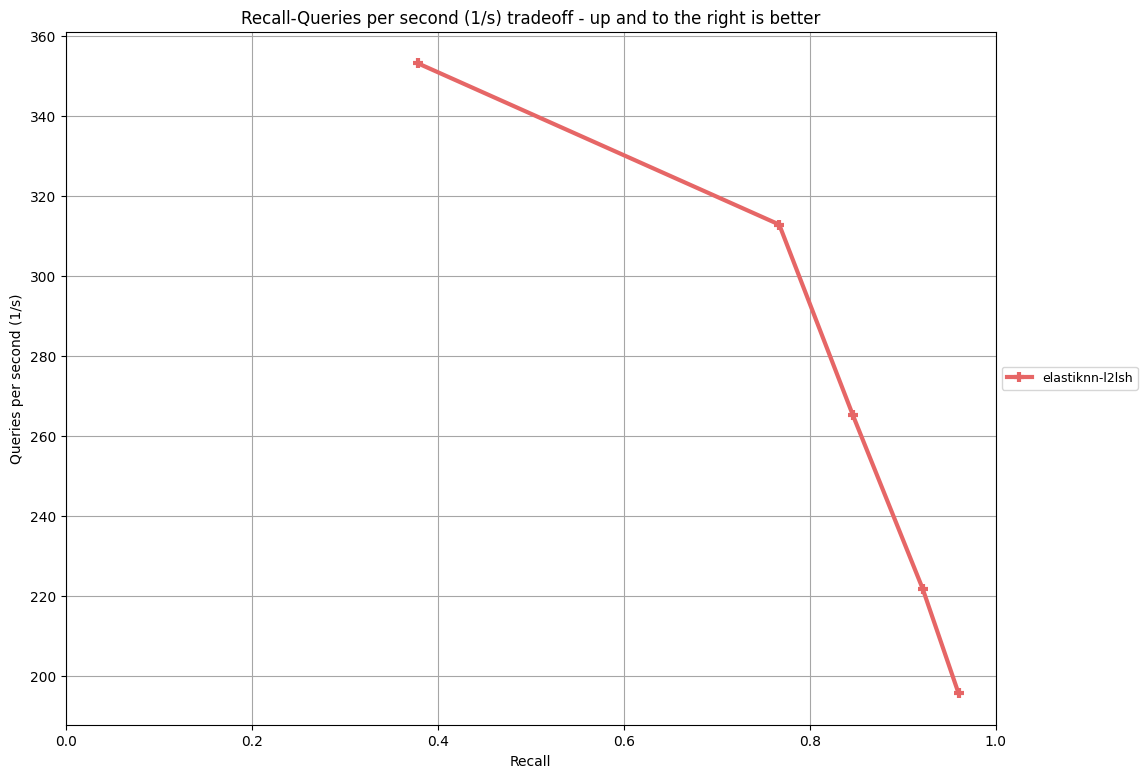
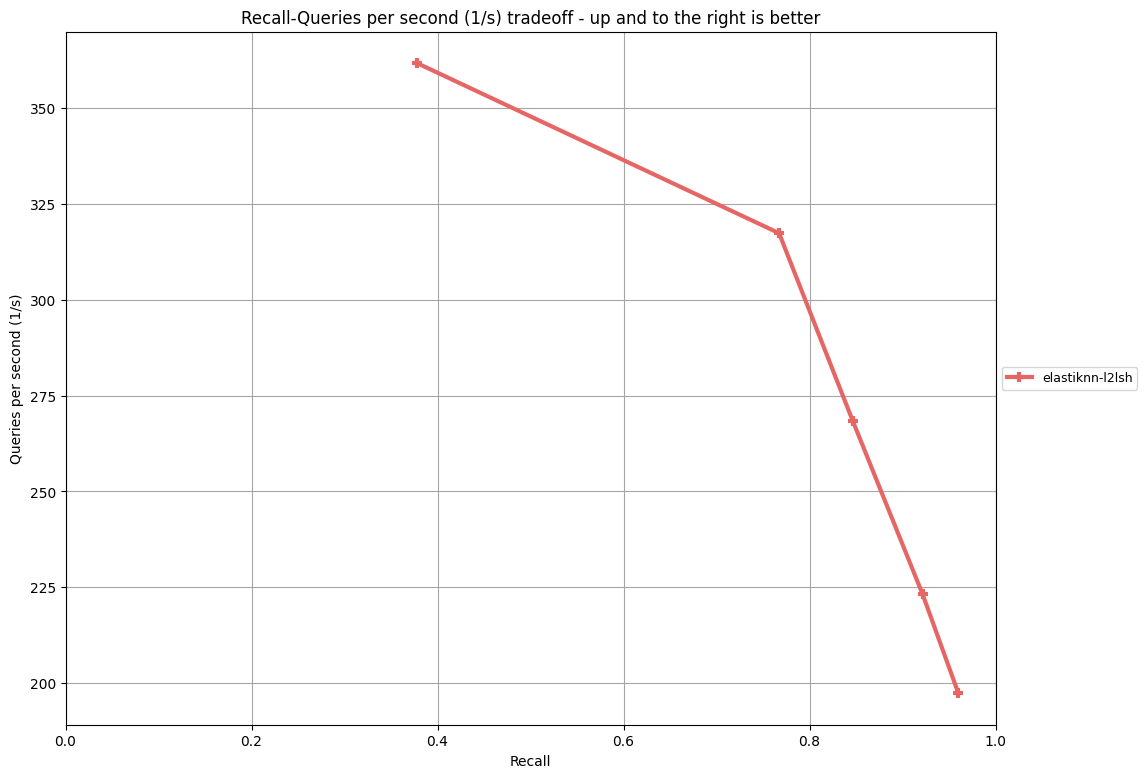
Benchmark

diff --git a/docs/pages/performance/fashion-mnist/results.md b/docs/pages/performance/fashion-mnist/results.md
@@ -1,10 +1,10 @@
 |Model|Parameters|Recall|Queries per Second|
 |---|---|---|---|
-|eknn-l2lsh|L=100 k=4 w=1024 candidates=500 probes=0|0.379|353.162|
-|eknn-l2lsh|L=100 k=4 w=1024 candidates=1000 probes=0|0.447|295.007|
-|eknn-l2lsh|L=100 k=4 w=1024 candidates=500 probes=3|0.634|286.531|
-|eknn-l2lsh|L=100 k=4 w=1024 candidates=1000 probes=3|0.716|245.690|
-|eknn-l2lsh|L=100 k=4 w=2048 candidates=500 probes=0|0.767|312.826|
-|eknn-l2lsh|L=100 k=4 w=2048 candidates=1000 probes=0|0.846|265.204|
-|eknn-l2lsh|L=100 k=4 w=2048 candidates=500 probes=3|0.921|221.817|
-|eknn-l2lsh|L=100 k=4 w=2048 candidates=1000 probes=3|0.960|195.653|
+|eknn-l2lsh|L=100 k=4 w=1024 candidates=500 probes=0|0.378|361.741|
+|eknn-l2lsh|L=100 k=4 w=1024 candidates=1000 probes=0|0.447|298.849|
+|eknn-l2lsh|L=100 k=4 w=1024 candidates=500 probes=3|0.634|289.620|
+|eknn-l2lsh|L=100 k=4 w=1024 candidates=1000 probes=3|0.716|241.990|
+|eknn-l2lsh|L=100 k=4 w=2048 candidates=500 probes=0|0.767|317.381|
+|eknn-l2lsh|L=100 k=4 w=2048 candidates=1000 probes=0|0.846|268.430|
+|eknn-l2lsh|L=100 k=4 w=2048 candidates=500 probes=3|0.922|223.197|
+|eknn-l2lsh|L=100 k=4 w=2048 candidates=1000 probes=3|0.960|197.335|
